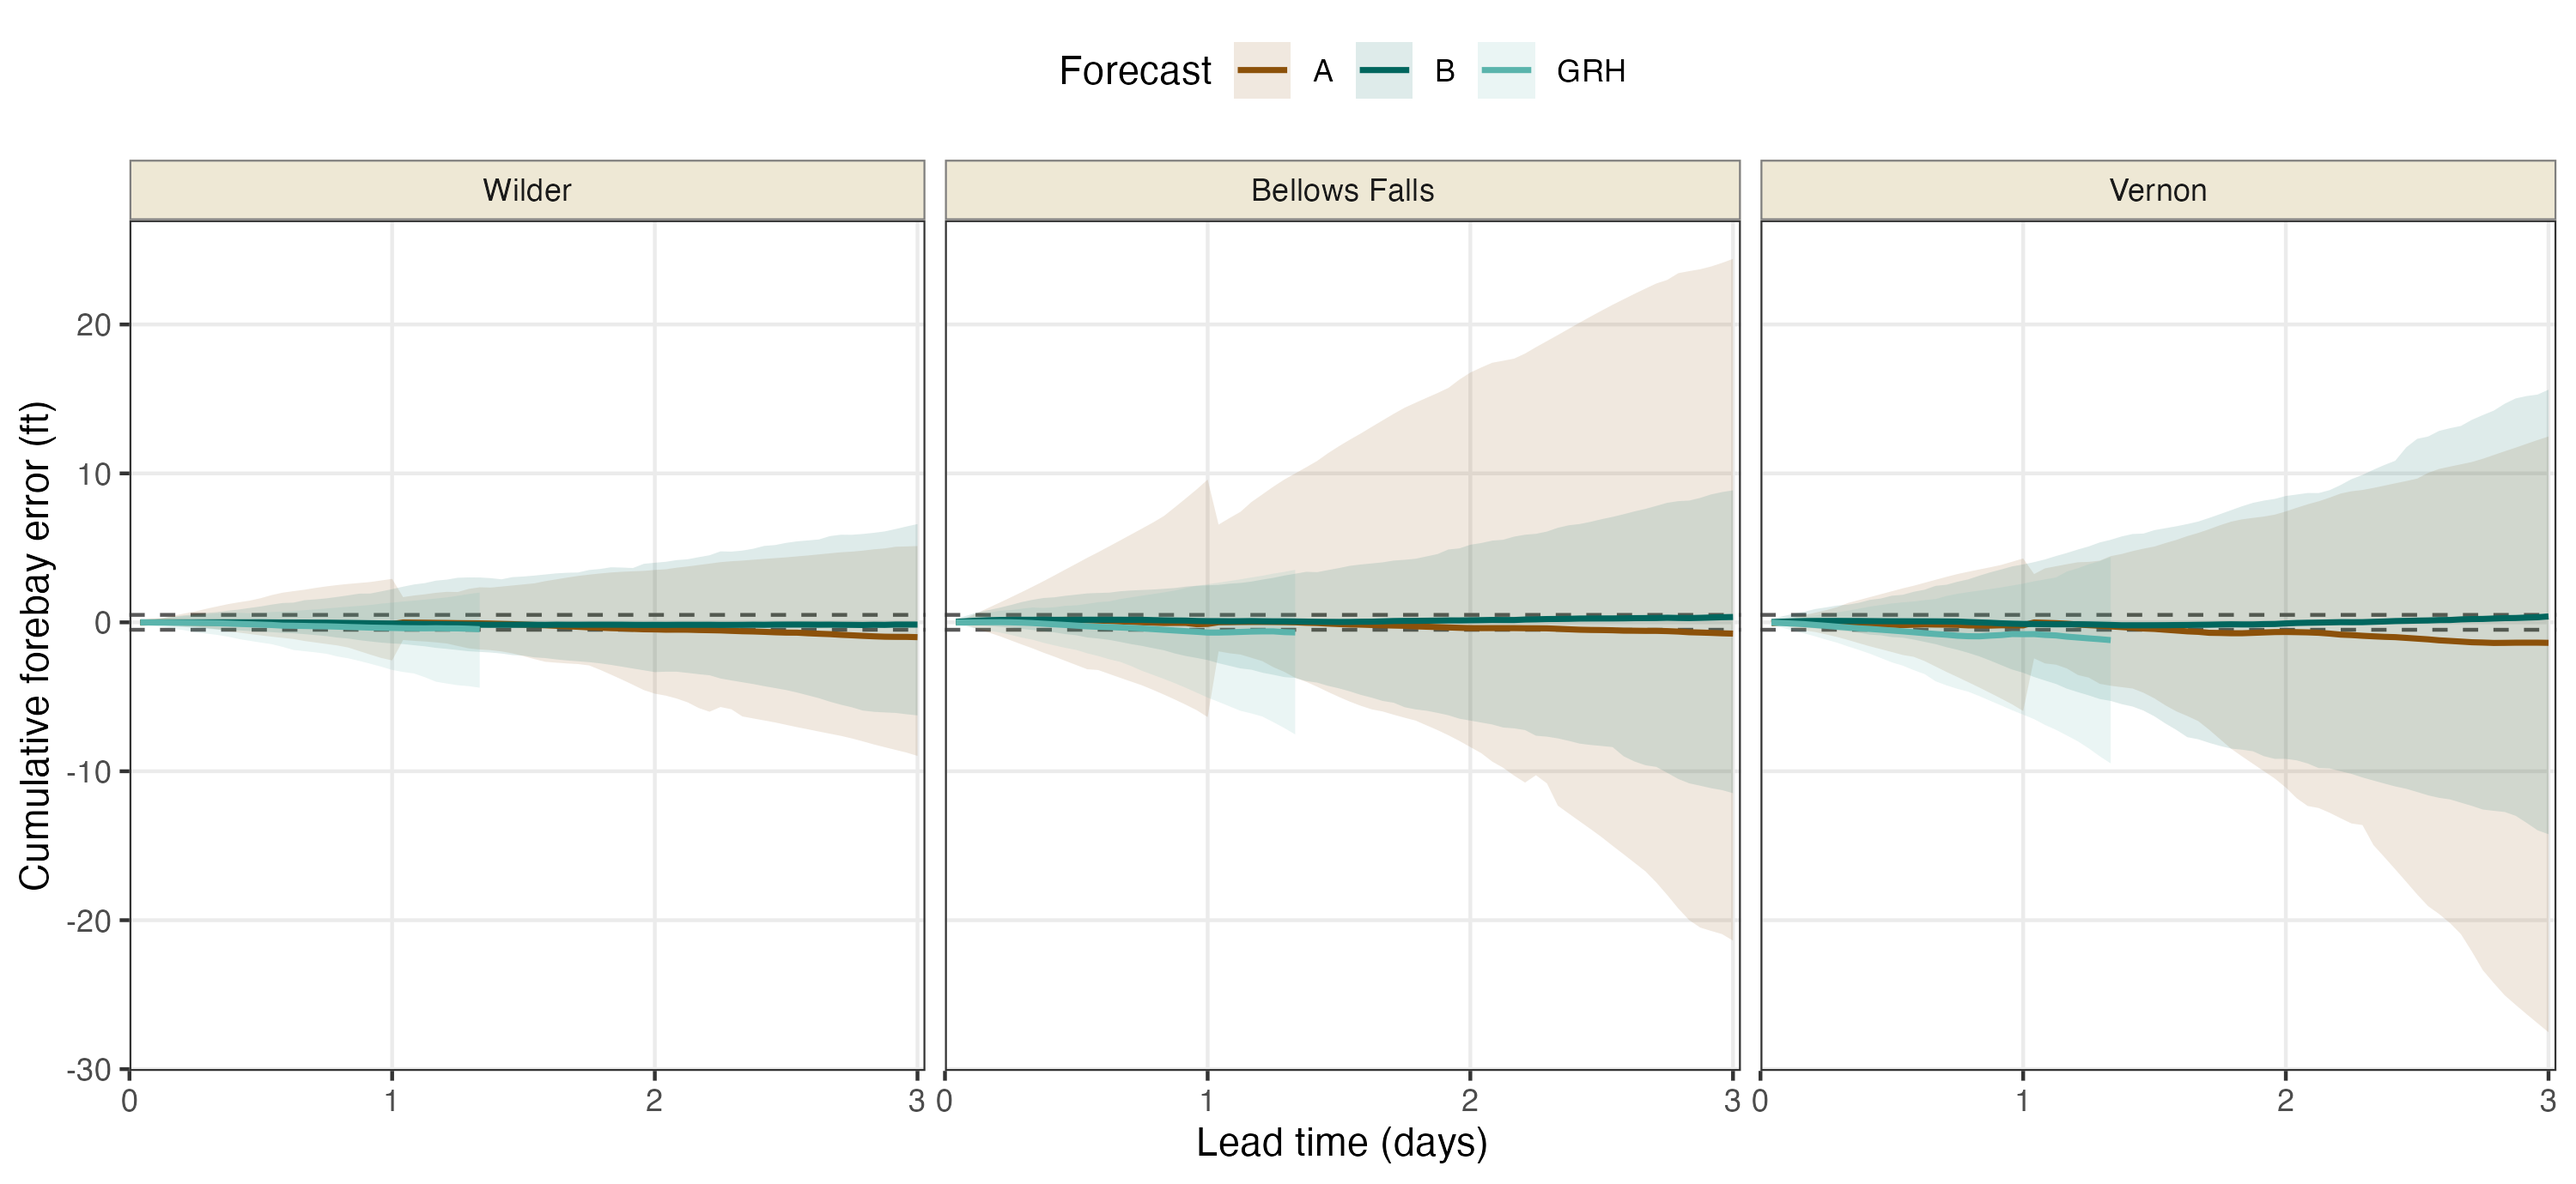
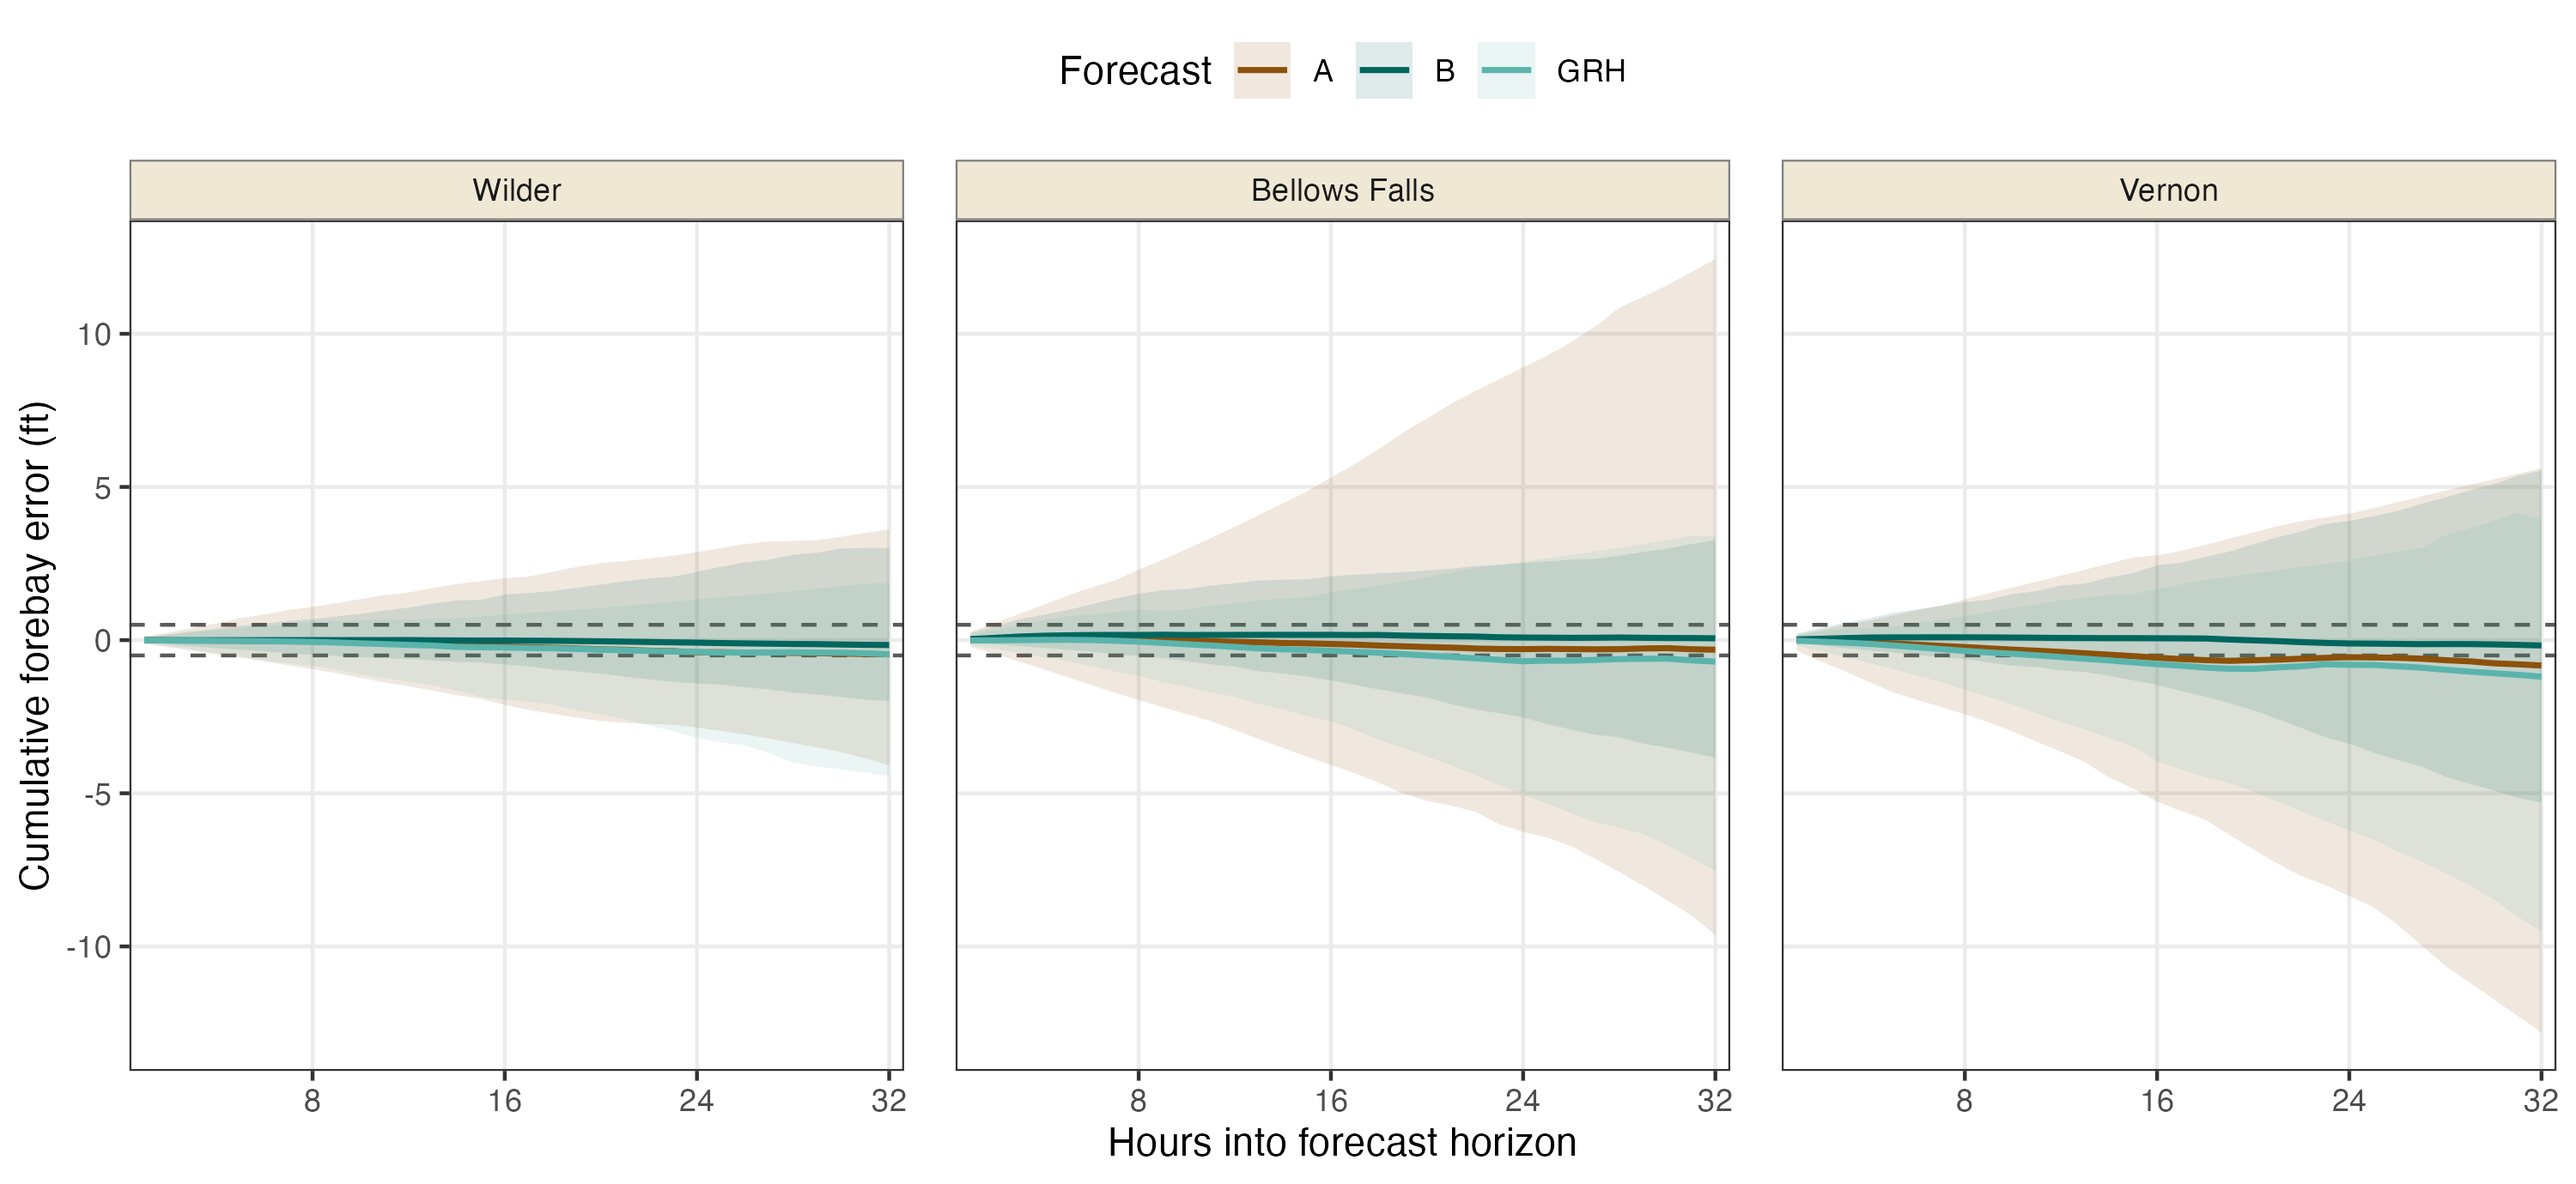
Index cumulative forebay error by horizon position, truncate at 32 h
Correcting the cumulative-error grouping exposed a second problem in Figures 5
and 6. Forecast A is issued at 04:00 but for 1146 of its 1617 issues the
delivered series begins at lead hour 25. Indexing the accumulation by absolute
lead time therefore compared 8 accumulated hours of A against 32 of B, and A's
exceedance curve reversed at hour 32 (Wilder 50.0% -> 28.0%) through sample
composition alone.

Both figures now index by position within each product's delivered horizon,
which retains every observation and compares an equal number of accumulated
hours across products. A's day-one point goes from 456 to 1617 issues. The
window ends at 32 h, the longest horizon the in-house forecast provides.

Curves are monotonic at all three sites. B holds a consistent advantage across
the shared window; A and the in-house forecast are comparable. Updated the
results paragraph, both captions, and the corresponding items in the reviewer
response.

diff --git a/revision/response.tex b/revision/response.tex
@@ -86,10 +86,16 @@ The audit also identified six errors or qualifications that required correction:
     \item The monthly KGE values cited for forecast A in January and February were 0.39 and
     $-0.40$. Recomputing gives 0.45 and $-0.67$.
     \item The cumulative forebay calculation grouped by valid time, leaving one observation
-    per group. The cumulative sum was therefore the hourly error. We corrected the grouping,
-    regenerated Figures 5 and 6, and replaced the results. The corrected analysis shows a
-    day-ahead advantage for forecast B, followed by high exceedance probabilities for both
-    commercial products at longer lead times.
+    per group. The cumulative sum was therefore the hourly error. We corrected the grouping to
+    accumulate over lead time within each forecast issue. Correcting it exposed a second problem:
+    forecast A's delivered series usually begins 25 hours after issue, so indexing the
+    accumulation by absolute lead time compared 8 accumulated hours of A against 32 of B and
+    produced an artifactual reversal in A's exceedance curve. Figures 5 and 6 now index by
+    position within each product's delivered horizon, which uses every observation and compares an
+    equal number of accumulated hours across products, and are truncated at 32 hours, the longest
+    horizon the in-house forecast provides. The corrected analysis shows a consistent advantage
+    for forecast B across that window, with all three products leaving the forebay band in a
+    substantial fraction of issues by the end of the first day.
     \item An NSE skill score added during the first revision compared products over different
     samples. The evaluated and reference forecasts must use the same observations for that
     comparison. We removed the score and now interpret NSE together with RMSE, sample
@@ -325,7 +331,9 @@ The figures also need be redrawn.
 We revised all captions to state the quantity, units, and reference lines. We also redrew
 Figures 5 and 6 after correcting the cumulative-error calculation. The revised figures use
 three location panels, a common product palette, larger labels, ribbons for the central 95\%
-interval in Figure 5, and percentages in Figure 6. Figure 6 now contains only the supported
+interval in Figure 5, and percentages in Figure 6. Both now plot hours into each product's
+delivered horizon rather than absolute lead time, and end at 32 hours; the captions state the
+absolute lead times each product's window spans. Figure 6 now contains only the supported
 neutral-start stress test.
 
 \vspace{0.4em}
@@ -817,12 +825,13 @@ forecast onclusion compared to general metrics.
 
 The generic and tailored metrics do not select different products: forecast B outperforms A on
 both. The tailored metric adds the decision horizon. Under the idealized neutral-start stress
-test, day-ahead exceedance probabilities for B are lower than A at all three dams: 30.8\% versus
-50.0\% at Wilder, 47.5\% versus 73.0\% at Bellows Falls, and 53.7\% versus 76.3\% at Vernon. By
-48 hours, the commercial products converge to 58.1--76.2\% across the sites, and by 72 hours
-both exceed 73\% everywhere. Product B therefore has a day-ahead advantage, while passive use
-of either forecast is untenable at longer horizons. NSE, KGE, PBIAS, and correlation do not
-express this result in forebay units.
+test, exceedance probabilities over the first 24 hours of each product's horizon are lower for B
+than for A at all three dams: 31.0\% versus 56.6\% at Wilder, 47.7\% versus 67.9\% at Bellows
+Falls, and 53.8\% versus 71.1\% at Vernon. By 32 hours, the longest horizon the three products
+share, B reaches 42.8--65.5\% while A reaches 61.2--82.0\%. Product B therefore holds a
+consistent advantage, but passive use of any of the products is untenable: by the end of the
+first day each leaves the band in roughly a third to three-quarters of issues. NSE, KGE, PBIAS,
+and correlation do not express this result in forebay units.
 
 On comparison to past studies, the introduction already discussed the head-to-head evaluation
 exercises (the HEPEX community experiments and the Bureau of Reclamation forecast rodeos), and we have
@@ -1051,8 +1060,10 @@ to value, citing Thompson and Brier (1955), Laugesen et al.\ (2023), and Farkas 
 (2.1). Abstract revised.
 
 \textbf{New analysis.} The cumulative forebay calculation was corrected and Figures 5 and 6 were
-regenerated. The corrected result identifies a day-ahead advantage for product B and high exceedance
-probabilities for both commercial products at longer horizons (3.5). The unsupported non-neutral-start
+regenerated, now indexed by hours into each product's delivered horizon and truncated at 32 hours.
+The corrected result identifies a consistent advantage for product B across that window, with all
+three products leaving the forebay band in a substantial fraction of issues by the end of the first
+day (3.5). The unsupported non-neutral-start
 analysis was removed. An NSE skill score considered during revision was also removed because the
 product and reference samples were not identical (1.6). The manuscript instead interprets NSE with
 RMSE, sample coverage, and benchmark forecasts. Smoothing sensitivity was tested over
@@ -1087,7 +1098,8 @@ the evaluation, and a gage-derived substitute would not be commensurable.
 \item \textbf{Calibration and validation diagnostics for the commercial products} (1.4). Not released to
 us by either vendor.
 \item \textbf{Redrawing every figure} (1.8). Figures 5 and 6 were regenerated after the cumulative
-calculation was corrected. The other figures retain their underlying design, with revised captions.
+calculation was corrected and re-indexed by hours into each product's delivered horizon. The other
+figures retain their underlying design, with revised captions.
 \item \textbf{A full forecast value assessment} (2.1). Literature cited and a two-stage pathway given,
 but no value metric computed.
 \item \textbf{Realized forebay exceedance rates} (2.19). Needs the scheduling model coupling of 4.9.

diff --git a/main.tex b/main.tex
@@ -334,16 +334,16 @@ The FERC relicensing described in Section \ref{sec:context} imposed a $\pm$0.5 f
 \begin{figure}
     \centering
     \includegraphics[width=1\linewidth]{5-cum-error-5pct.png}
-    \caption{Cumulative forebay error under an idealized pass-inflow stress test with a neutral starting position. Lines show the median across forecast issues and shaded bands span the 2.5th to 97.5th percentiles. Dashed lines mark the $\pm$0.5 foot ($\approx$15 cm) forebay operating band.}
+    \caption{Cumulative forebay error under an idealized pass-inflow stress test with a neutral starting position. Lines show the median across forecast issues and shaded bands span the 2.5th to 97.5th percentiles. Dashed lines mark the $\pm$0.5 foot ($\approx$15 cm) forebay operating band. The horizontal axis counts hours from the start of each product's delivered horizon rather than absolute lead time from issue, so that every point compares an equal number of accumulated hours across products. Forecast A is issued at 04:00 but its delivered series usually begins 25 hours later; its 32 plotted hours therefore span mean lead times of 18.6 to 49.7 hours, while B and the in-house forecast begin at lead hour 1. The window ends at 32 hours, the longest horizon the in-house forecast provides.}
     \label{fig:cum-error}
 \end{figure}
 
-Figure \ref{fig:prob-exeed-threshold} shows the corresponding probability of leaving the forebay band. During the first 24 hours, forecast B has lower exceedance probability than A at all three dams: 30.8\% versus 50.0\% at Wilder, 47.5\% versus 73.0\% at Bellows Falls, and 53.7\% versus 76.3\% at Vernon. The in-house forecast is available only through the day-ahead period and has probabilities of 53.9\%, 67.6\%, and 73.2\%, respectively. By 48 hours, the two commercial products converge to 58.1--76.2\% across the three dams; by 72 hours, probabilities range from 73.1\% to 90.3\%. Thus B provides a clearer advantage over the first day, while neither commercial product can be passed through without intervention over longer horizons. This distinction was not apparent from the aggregate metrics alone.
+Figure \ref{fig:prob-exeed-threshold} shows the corresponding probability of leaving the forebay band. Over the first 24 hours of each product's horizon, forecast B has lower exceedance probability than A at all three dams: 31.0\% versus 56.6\% at Wilder, 47.7\% versus 67.9\% at Bellows Falls, and 53.8\% versus 71.1\% at Vernon. The in-house forecast, whose horizon extends only 32 hours past issue, gives 53.9\%, 67.6\%, and 73.3\% respectively, placing it close to A rather than to B. By 32 hours the ordering is unchanged: B reaches 42.8--65.5\% across the three dams while A reaches 61.2--82.0\% and the in-house forecast 60.2--85.4\%. Thus B holds a consistent advantage across the whole window the three products share, but no product can be passed through without intervention: by the end of the first day every one of them leaves the band in roughly a third to three-quarters of issues, and the exceedance probability rises monotonically with each additional hour accumulated. This distinction was not apparent from the aggregate metrics alone.
 
 \begin{figure}
     \centering
     \includegraphics[width=1\linewidth]{6a-threshold-1day.png}
-    \caption{Probability of exceeding the $\pm$0.5 foot ($\approx$15 cm) forebay operating band at daily lead times under the idealized pass-inflow stress test. Each forecast issue begins from a neutral forebay position. The in-house forecast ends after the day-ahead period.}
+    \caption{Probability of exceeding the $\pm$0.5 foot ($\approx$15 cm) forebay operating band under the idealized pass-inflow stress test. Each forecast issue begins from a neutral forebay position. As in Figure \ref{fig:cum-error}, the horizontal axis counts hours from the start of each product's delivered horizon rather than absolute lead time from issue, and the window ends at 32 hours, the longest horizon the in-house forecast provides.}
     \label{fig:prob-exeed-threshold}
 \end{figure}
 %    \begin{figure}
